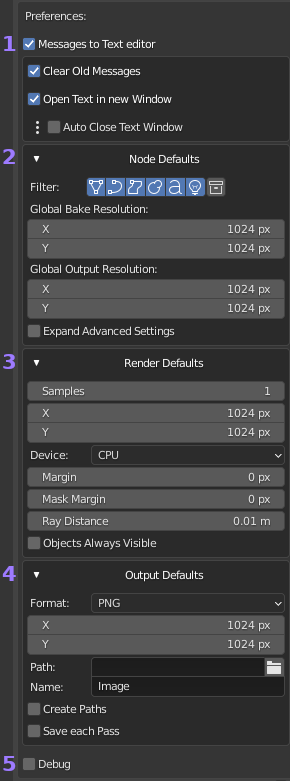
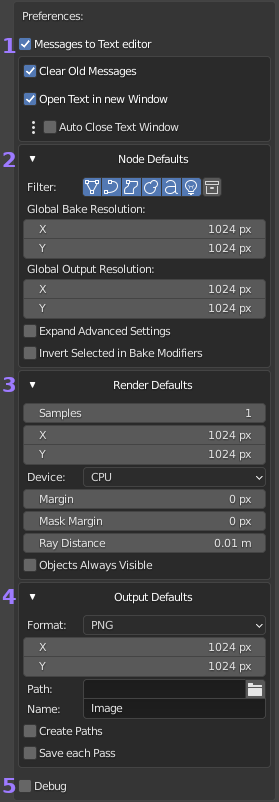
fix formatting

diff --git a/prefs.rst b/prefs.rst
@@ -6,17 +6,21 @@ Below are the current available preferences and their default settings:
 .. image:: /imgs/prefs.png
 
 1. **Message Settings:**
+
     * *Messages to Text Editor*: Causes messages and errors
       produced by Bake Wrangler to be written to a text file named '*BakeWrangler*'
       in the current project. When disabled these messages would only be visible in
       the console. This also enabled the three options below.
+      
     * *Clear Old Messages*: Clears the text file prior to
       each bake, so that messages are only relevant to the current/last process.
+      
     * *Open Text in new Window*: Will open a new window when
       a bake process starts, displaying the text file (which is continually updated).
       The size and location of the window will match the Bake Node Editor from which the
       bake was started. The intention is to allow you to create your own work space with
       the text file already open and so disable this popup.
+      
     * *Auto Close Text Window*: Will close the above popup automatically when a bake
       completes sucessfully.
 
@@ -25,12 +29,17 @@ Below are the current available preferences and their default settings:
    bake and output resolutions. You can also have
    nodes with collapsed advanced options start with them expanded instead. (Applies only
    to new nodes)
+   
+   * *Invert Selected in Bake Modifiers*: Causes the modifier selection method to be inverted
+     when using this option in the :doc:`Mesh </mesh>` node. Viewport hidden modifiers will
+     be baked down instead of shown modifiers.
    |br|
    
 3. **Render Defaults:** Has settings related to the :doc:`Mesh </mesh>` and :doc:`Pass </pass>`
    nodes, allowing you to configure their defaults. The resolutions set here are used when
    the global setting is overridden or if no global node is enabled in the scene.
    (Applies only to new nodes)
+   
    * *Objects Always Visible*: Causes Bake Wrangler to ignore
      the visibility settings of an object in Blender. When enabled all objects selected
      as part of a bake will be made visible.
@@ -39,7 +48,9 @@ Below are the current available preferences and their default settings:
 4. **Output Defaults:** Has settings related to the :doc:`Output Image Path </outputimgpath>`
    node, allowing you to configure the defaults for newly created nodes. Again the resolutions
    set here only apply when the global setting is overridden or no active global node is found.
+   
    * *Create Paths*: Causes Bake Wrangler to attempt to create the output path if it doesn't exist.
+   
    * *Save each Pass*: Causes the output to be saved after each
      bake pass instead of after all contributing passes. This will reduce performance in
      some cases (especially with Alpha being written every time), but will preserve pass
